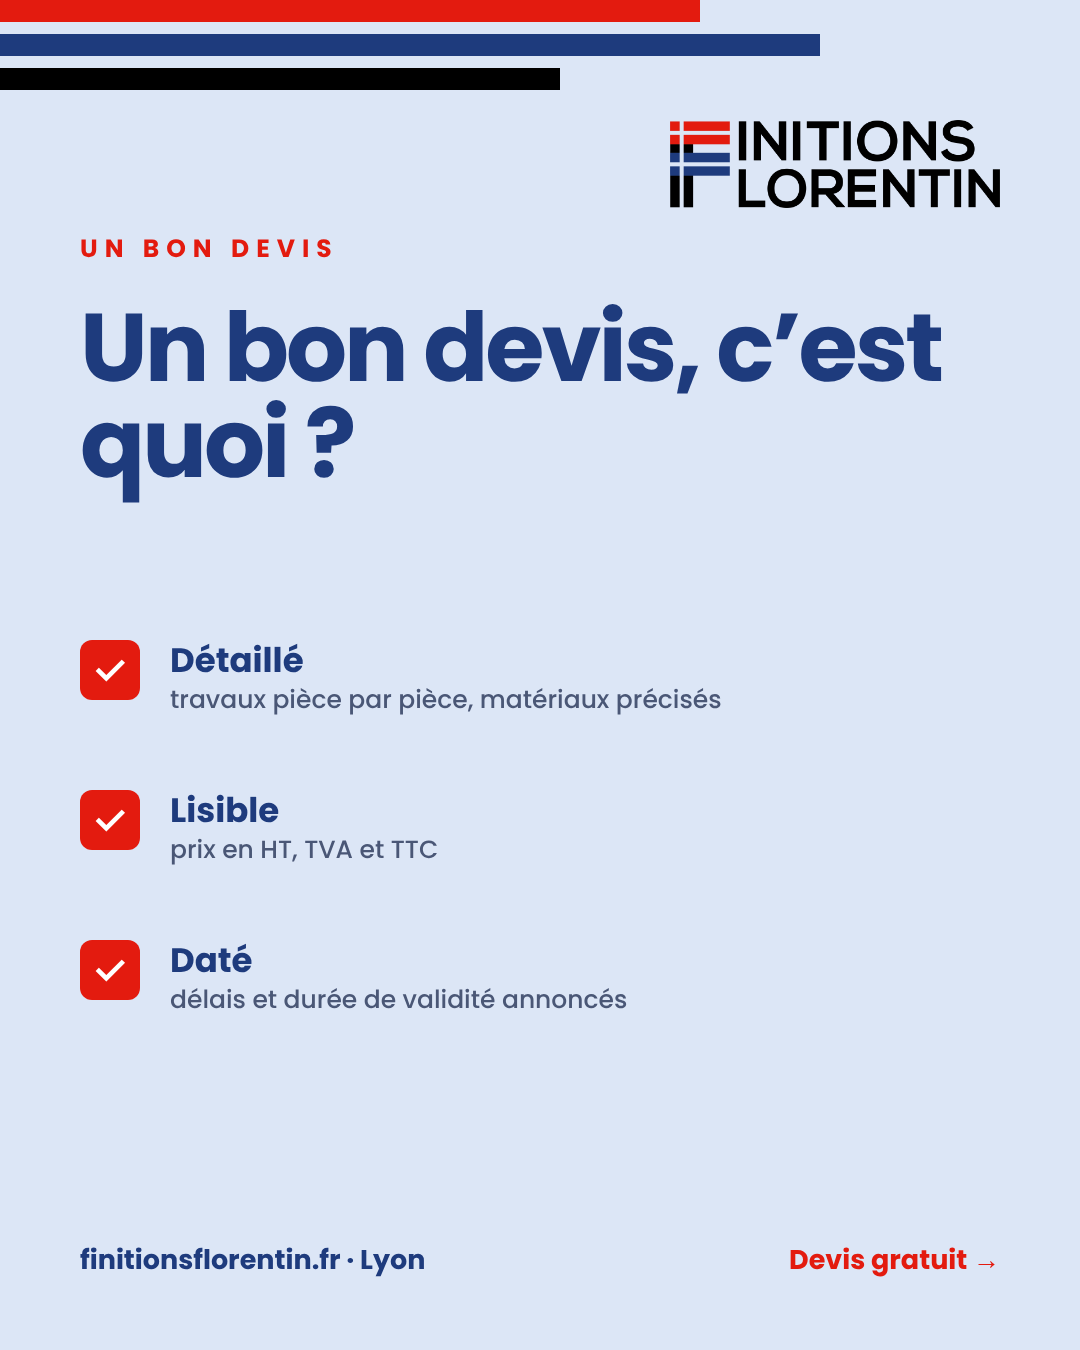
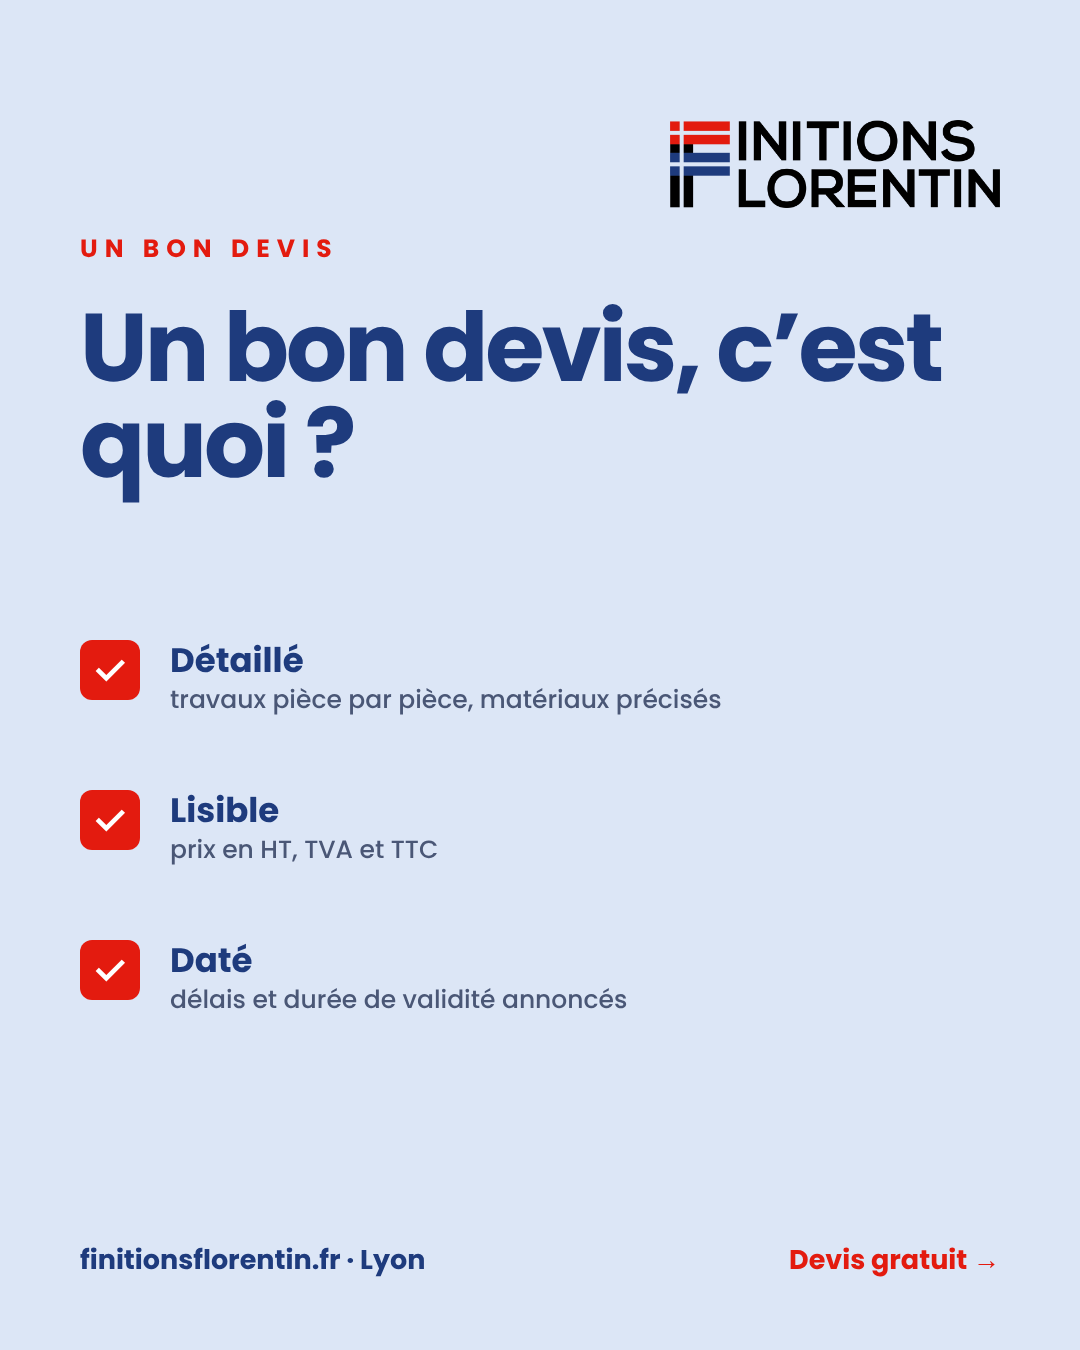
Option nobars + cartes 6 et 8/11 sans traits
Claude-Session: https://claude.ai/code/session_01LyxsXe8xqb1EZ7c4QQAmih

Changed region(s): [[0.0, 0.0, 0.7639, 0.0933]]

diff --git a/tools/render.py b/tools/render.py
@@ -36,6 +36,7 @@ async def main(spec,out):
         pg=await b.new_page(viewport={"width":1080,"height":1350})
         for c in spec:
             h=FN[c['layout']](*c.get('args',[]),**c.get('kwargs',{}))
+            if c.get('nobars'): h=re.sub(r'<div class="abs" style="left:0;top:\d+px;width:\d+px;height:22px;background:[^"]*"></div>','',h)
             await pg.set_content(f"<html>{h}</html>"); await pg.wait_for_timeout(500)
             await pg.screenshot(path=os.path.join(out,c['out']+'.png'))
             print('ok',c['out'])

diff --git a/README.md b/README.md
@@ -97,3 +97,5 @@ Murs : mat, velours OU satiné selon le rendu voulu. Boiseries : satiné, voire 
 
 ## CONTRÔLE QUALITÉ AVANT PROGRAMMATION (le gérant n'est pas toujours là pour corriger)
 Pour chaque post, avant de programmer : (1) chaque affirmation technique est confirmée par une recherche web sur une source sérieuse (DTU, fabricants, ADEME, service-public) ; sinon, la reformuler en « selon les cas » ou abandonner le sujet ; (2) pas de règle absolue du type « X = Y uniquement » : un métier a presque toujours plusieurs options ; (3) chaque ligne de carte doit se comprendre seule par un particulier, sans jargon vague ; (4) relire la carte à l'image et la légende côte à côte : mêmes faits ; (5) en cas de doute, ne pas programmer ce post.
+
+Option de rendu : `"nobars": true` dans l'objet de spec de tools/render.py supprime les 3 traits du haut. Utiliser sur au moins une carte typographique sur deux.
